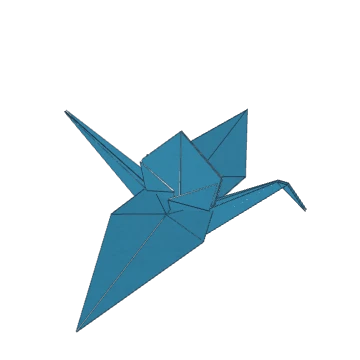
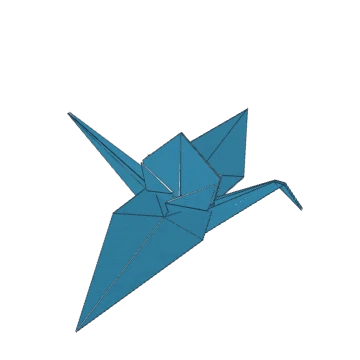
학: 몸통 부풀림을 키워 옆에서 봐도 빵빵하게

diff --git a/src/models/crane.js b/src/models/crane.js
@@ -57,7 +57,7 @@ const puff = (p, e) => {
   // 목·꼬리는 겹 사이를 눌러 얇게 한다 (두꺼우면 아래에서 볼 때 속의 흰 면이 들여다보인다)
   const k = Math.min(1, Math.max(0, (Math.abs(x) - 0.12) / 0.08));
   const w = k * k * (3 - 2 * k) * e;
-  return [x, y, z * (1 - 0.65 * w) + 0.07 * e * fx * fy * s];
+  return [x, y, z * (1 - 0.65 * w) + 0.09 * e * fx * fy * s];
 };
 const tagged = (moves, tag) => moves.map((m) => ({ ...m, tag }));
 const preAndPetal = (front, face, petalTag, side) => [
